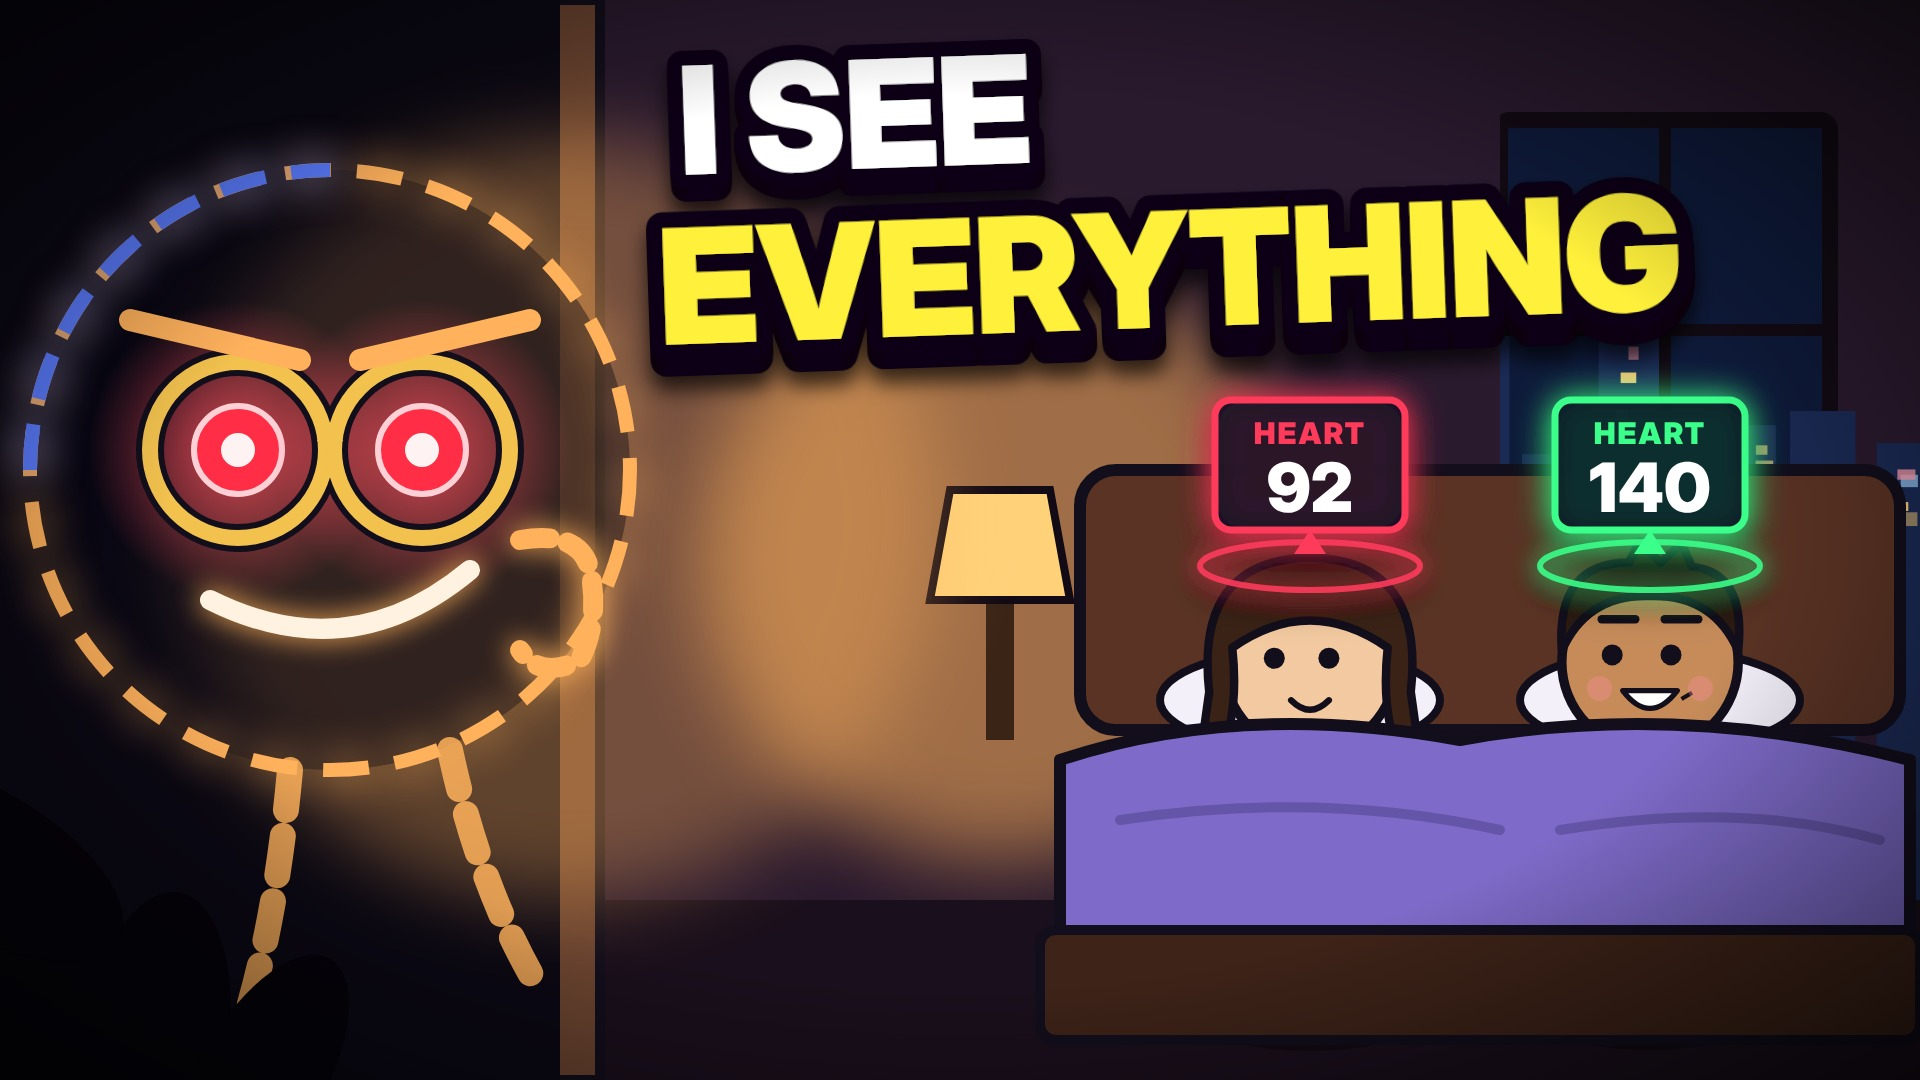
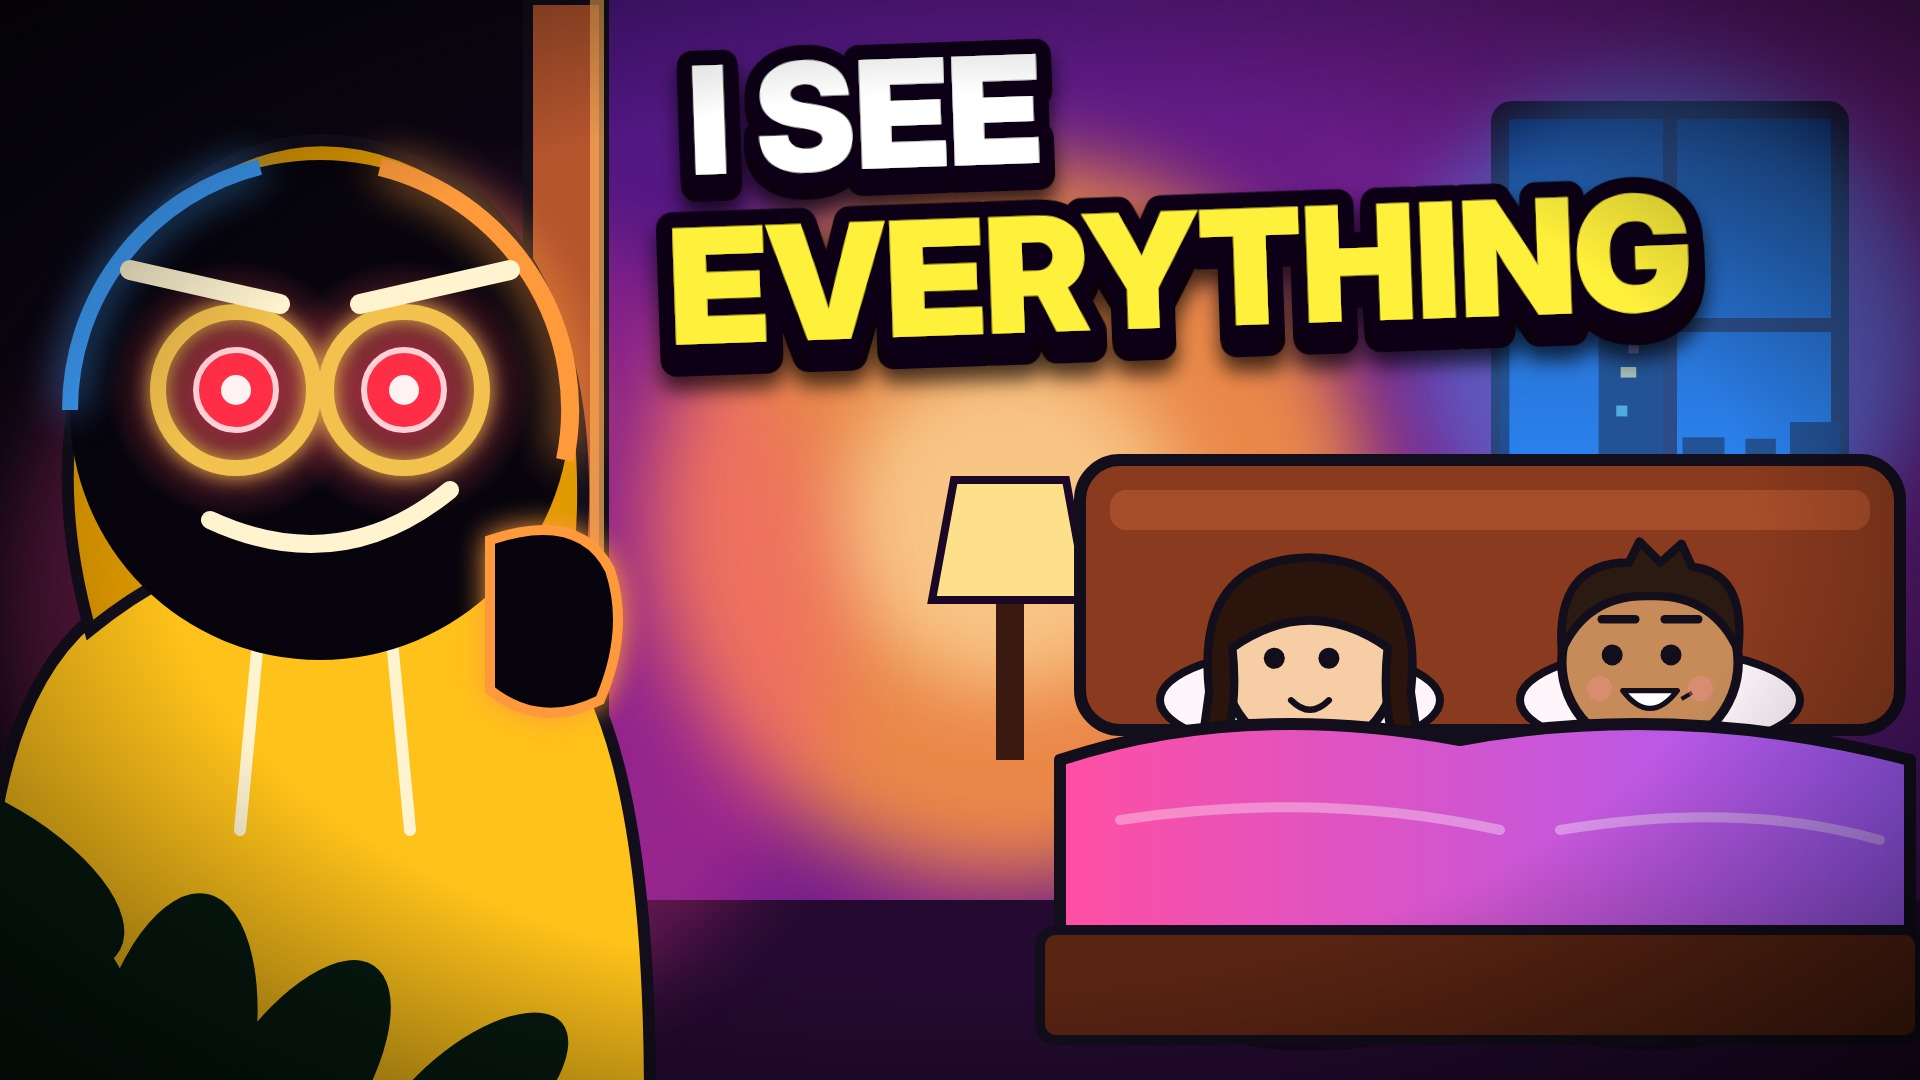
016 peek thumbnail: vivid palette, hoodie, no heart meters
Claude-Session: https://claude.ai/code/session_019ai2m2MxcJnxMHWqzPuaSF

diff --git a/episodes/016-invisible/thumb4.html b/episodes/016-invisible/thumb4.html
@@ -1,56 +1,58 @@
 <!doctype html><html><head><meta charset="utf-8"><style>html,body{margin:0}svg{display:block}text{font-family:"Inter Display","Inter",sans-serif}</style></head><body><div id="s"></div>
 <script src="../../studio/lib.js"></script><script src="../../studio/shots.js"></script><script src="../../studio/cast.js"></script><script src="../../studio/thumbkit.js"></script><script src="../../studio/ep/016.js"></script><script>
-// Peeking variant: invisible Glint (rim-lit outline, glowing eyes) huge in the foreground at the door,
-// a warm lamp-lit bedroom behind with the couple under the covers and game-style heart-rate meters.
-const W_='#FFB15C', B_='#5B7CFF';
+// Peeking variant: Glint as a rim-lit shadow in a yellow hoodie, huge in the foreground at the door,
+// spying on a vivid lamp-lit bedroom where a couple lie under the covers, unaware.
+const W_='#FF9A3C', B_='#3FA0FF', HOOD='#FFC21A', HOOD2='#E09A00';
+const th_defs=`<defs>
+ <linearGradient id="thWall" x1="0" y1="0" x2="1" y2="1"><stop offset="0" stop-color="#4A1680"/><stop offset=".55" stop-color="#7A1F8C"/><stop offset="1" stop-color="#2A0E4A"/></linearGradient>
+ <linearGradient id="thSheet" x1="0" y1="0" x2="1" y2="0"><stop offset="0" stop-color="#FF4FA3"/><stop offset="1" stop-color="#A05CFF"/></linearGradient>
+ <linearGradient id="thSky" x1="0" y1="0" x2="0" y2="1"><stop offset="0" stop-color="#0A1E5C"/><stop offset="1" stop-color="#1E7BFF"/></linearGradient>
+</defs>`;
 const th_room=`
- <rect x="560" y="0" width="1360" height="1080" fill="#2A1A2E"/>
- <rect x="1500" y="120" width="330" height="420" rx="10" fill="#0E1A3A" stroke="#120A14" stroke-width="16"/>
- ${TK.skyline(5,540,'#1B2A55',['#FFD27A','#9FD3FF','#FF9FB0'],80,300,30,70)}
- <path d="M1500 330 H1830 M1665 120 V540" stroke="#120A14" stroke-width="12"/>
- <rect x="560" y="0" width="940" height="1080" fill="#2A1A2E"/>
- ${TK.glowBlob(1000,560,300,W_,.55)}
- <g transform="translate(1000,600)"><rect x="-14" y="0" width="28" height="140" fill="#3A2416"/><path d="M-70 0 L70 0 L50 -110 L-50 -110Z" fill="#FFD27A" stroke="#120A14" stroke-width="8"/></g>
- <rect x="560" y="900" width="1360" height="180" fill="#1A0F1C"/>`;
-const th_hair=`<path d="M-96 -30 Q-110 -156 0 -158 Q110 -156 96 -30 L110 70 Q64 20 74 -72 Q0 -124 -74 -72 Q-64 20 -110 70Z" fill="#3A2216" stroke="${INK}" stroke-width="8" stroke-linejoin="round"/>`;
+ <rect x="560" y="0" width="1360" height="1080" fill="url(#thWall)"/>
+ <rect x="1500" y="110" width="340" height="430" rx="12" fill="url(#thSky)" stroke="#1A0826" stroke-width="18"/>
+ <g clip-path="url(#thWin)">${TK.skyline(5,540,'#0B1440',['#FFE27A','#7CF5FF','#FF8FD0'],60,320,30,70)}</g>
+ <clipPath id="thWin"><rect x="1500" y="110" width="340" height="430"/></clipPath>
+ <path d="M1500 325 H1840 M1670 110 V540" stroke="#1A0826" stroke-width="14"/>
+ ${TK.glowBlob(1670,330,260,'#3FA0FF',.45)}
+ ${TK.glowBlob(1010,520,360,W_,.85)}${TK.glowBlob(1010,520,170,'#FFE0A0',.7)}
+ <g transform="translate(1010,600)"><rect x="-14" y="0" width="28" height="160" fill="#3A1A10"/><path d="M-78 0 L78 0 L56 -120 L-56 -120Z" fill="#FFE08A" stroke="#1A0826" stroke-width="8"/></g>
+ <rect x="560" y="900" width="1360" height="180" fill="#240A30"/>`;
+const th_hair=`<path d="M-96 -30 Q-110 -156 0 -158 Q110 -156 96 -30 L110 70 Q64 20 74 -72 Q0 -124 -74 -72 Q-64 20 -110 70Z" fill="#2A140C" stroke="${INK}" stroke-width="8" stroke-linejoin="round"/>`;
 const th_bed=`
- <rect x="1080" y="470" width="820" height="260" rx="36" fill="#5A3324" stroke="${INK}" stroke-width="12"/>
- <ellipse cx="1300" cy="700" rx="140" ry="50" fill="#F4F0FA" stroke="${INK}" stroke-width="8"/><ellipse cx="1660" cy="700" rx="140" ry="50" fill="#F4F0FA" stroke="${INK}" stroke-width="8"/>
- ${extra({x:1310,y:720,s:1.05,t:0,head:'#F2C9A0',mouth:'smile',pose:'down',hair:th_hair,look:-1})}
+ <rect x="1080" y="460" width="820" height="270" rx="40" fill="#8A3A1E" stroke="${INK}" stroke-width="12"/>
+ <rect x="1110" y="490" width="760" height="40" rx="16" fill="#B5552E" opacity=".7"/>
+ <ellipse cx="1300" cy="700" rx="140" ry="50" fill="#FFF6FB" stroke="${INK}" stroke-width="8"/><ellipse cx="1660" cy="700" rx="140" ry="50" fill="#FFF6FB" stroke="${INK}" stroke-width="8"/>
+ ${extra({x:1310,y:720,s:1.05,t:0,head:'#F6CDA4',mouth:'smile',pose:'down',hair:th_hair,look:-1})}
  ${person({x:1650,y:720,s:1.05,t:0,who:'kai',pose:'down',mouth:'grin',brows:'calm',look:-1})}
- <path d="M1060 760 Q1240 700 1460 740 Q1680 700 1910 760 L1910 960 L1060 960Z" fill="#7E6BC9" stroke="${INK}" stroke-width="12" stroke-linejoin="round"/>
- <path d="M1120 820 Q1320 790 1500 830 M1560 830 Q1740 800 1880 840" stroke="#6555A8" stroke-width="10" fill="none" stroke-linecap="round"/>
- <rect x="1040" y="930" width="880" height="110" rx="16" fill="#3E2318" stroke="${INK}" stroke-width="10"/>`;
-const th_meter=(x,y,label,val,col)=>`<g transform="translate(${x},${y})" filter="url(#tkShadow)">
- <ellipse cx="0" cy="96" rx="110" ry="24" fill="none" stroke="${col}" stroke-width="6" opacity=".9" style="filter:drop-shadow(0 0 12px ${col})"/>
- <rect x="-95" y="-70" width="190" height="130" rx="16" fill="#0B0F22" fill-opacity=".85" stroke="${col}" stroke-width="7" style="filter:drop-shadow(0 0 16px ${col})"/>
- <text y="-26" text-anchor="middle" font-size="30" font-weight="900" fill="${col}" letter-spacing="2">${label}</text>
- <text y="42" text-anchor="middle" font-size="68" font-weight="900" fill="#fff">${val}</text>
- <path d="M0 60 L-16 84 H16Z" fill="${col}"/></g>`;
+ <path d="M1060 760 Q1240 700 1460 740 Q1680 700 1910 760 L1910 960 L1060 960Z" fill="url(#thSheet)" stroke="${INK}" stroke-width="12" stroke-linejoin="round"/>
+ <path d="M1120 820 Q1320 790 1500 830 M1560 830 Q1740 800 1880 840" stroke="#FFFFFF" stroke-opacity=".35" stroke-width="10" fill="none" stroke-linecap="round"/>
+ <rect x="1040" y="930" width="880" height="110" rx="16" fill="#5A2412" stroke="${INK}" stroke-width="10"/>`;
 const th_door=`
- <rect x="530" y="0" width="70" height="1080" fill="#6B4430" stroke="${INK}" stroke-width="10"/>
- <rect x="0" y="0" width="560" height="1080" fill="#0B0814"/>
- ${TK.glowBlob(560,520,380,W_,.35)}`;
-// big invisible Glint peeking: dashed outline body, rim light, glowing eyes in gold glasses
-const th_glint=`<g transform="translate(330,470)">
- <circle r="300" fill="#0A0814" opacity=".55"/>
- <circle r="300" fill="none" stroke="${W_}" stroke-width="14" stroke-dasharray="46 26" style="filter:drop-shadow(0 0 22px ${W_})"/>
- <path d="M-300 0 A300 300 0 0 1 0 -300" fill="none" stroke="${B_}" stroke-width="14" stroke-dasharray="46 26" style="filter:drop-shadow(0 0 22px ${B_})"/>
- <path d="M-40 300 Q-60 520 -120 640 M120 280 Q150 420 210 520" stroke="${W_}" stroke-width="26" fill="none" stroke-dasharray="40 26" stroke-linecap="round" opacity=".85"/>
- ${[-1,1].map(d=>`<g transform="translate(${d*92},-20)"><circle r="150" fill="url(#gRed)"/><circle r="44" fill="#FF2E46" stroke="#FFD0D6" stroke-width="6"/><circle r="17" fill="#FFF2F2"/></g>`).join('')}
- <circle cx="-92" cy="-20" r="88" fill="none" stroke="${INK}" stroke-width="28"/><circle cx="92" cy="-20" r="88" fill="none" stroke="${INK}" stroke-width="28"/>
- <circle cx="-92" cy="-20" r="88" fill="none" stroke="#F2C14E" stroke-width="16"/><circle cx="92" cy="-20" r="88" fill="none" stroke="#F2C14E" stroke-width="16"/>
- <path d="M-8 -26 Q0 -40 8 -26" stroke="#F2C14E" stroke-width="12" fill="none"/>
- <path d="M-200 -150 L-30 -110 M200 -150 L30 -110" stroke="${W_}" stroke-width="22" stroke-linecap="round"/>
- <path d="M-120 130 Q20 200 140 100" stroke="#FFF2E0" stroke-width="20" fill="none" stroke-linecap="round" style="filter:drop-shadow(0 0 14px ${W_})"/>
+ <rect x="0" y="0" width="560" height="1080" fill="#0A0612"/>
+ ${TK.glowBlob(420,620,420,'#FF3B9A',.28)}
+ <rect x="528" y="0" width="76" height="1080" fill="#B5552E" stroke="${INK}" stroke-width="10"/>
+ <rect x="590" y="0" width="14" height="1080" fill="#FFB15C" opacity=".7"/>`;
+// Glint: solid shadow head with a hot rim light, yellow hoodie, glowing red eyes in his gold glasses, sly grin
+const th_glint=`<g transform="translate(320,500)">
+ <path d="M-330 600 Q-360 230 -230 120 Q-120 30 0 40 Q140 40 240 140 Q330 240 330 600Z" fill="${HOOD}" stroke="${INK}" stroke-width="12"/>
+ <path d="M-230 130 Q-300 -120 -150 -300 Q0 -420 160 -300 Q300 -160 250 140 Q120 40 0 40 Q-120 40 -230 130Z" fill="${HOOD2}" stroke="${INK}" stroke-width="12"/>
+ <path d="M-60 120 L-80 330 M70 120 L90 330" stroke="#FFF3D0" stroke-width="12" stroke-linecap="round"/>
+ <circle cx="0" cy="-90" r="250" fill="#07040D"/>
+ <path d="M-250 -90 A250 250 0 0 1 -60 -333" fill="none" stroke="${B_}" stroke-width="16" style="filter:drop-shadow(0 0 20px ${B_})"/>
+ <path d="M60 -333 A250 250 0 0 1 245 -40" fill="none" stroke="${W_}" stroke-width="18" style="filter:drop-shadow(0 0 22px ${W_})"/>
+ ${[-1,1].map(d=>`<g transform="translate(${d*84},-110)"><circle r="130" fill="url(#gRed)"/><circle r="40" fill="#FF2E46" stroke="#FFD0D6" stroke-width="6"/><circle r="15" fill="#FFF2F2"/></g>`).join('')}
+ <circle cx="-84" cy="-110" r="78" fill="none" stroke="#F2C14E" stroke-width="16" style="filter:drop-shadow(0 0 10px #F2C14E)"/><circle cx="84" cy="-110" r="78" fill="none" stroke="#F2C14E" stroke-width="16" style="filter:drop-shadow(0 0 10px #F2C14E)"/>
+ <path d="M-8 -116 Q0 -128 8 -116" stroke="#F2C14E" stroke-width="12" fill="none"/>
+ <path d="M-190 -230 L-40 -196 M190 -230 L40 -196" stroke="#FFF3D0" stroke-width="20" stroke-linecap="round"/>
+ <path d="M-110 20 Q20 80 130 -10" stroke="#FFF3D0" stroke-width="18" fill="none" stroke-linecap="round"/>
 </g>
- <g transform="translate(560,600)"><path d="M-40 -60 q60 -10 70 30 q10 50 -10 90 q-40 20 -60 -10" fill="none" stroke="${W_}" stroke-width="20" stroke-dasharray="30 18" stroke-linecap="round" style="filter:drop-shadow(0 0 14px ${W_})"/></g>`;
-const th_leaves=`<g fill="#05030A">${[[30,1000,190,-30],[150,1060,170,10],[-20,860,160,-60],[260,1080,140,30]].map(([x,y,r,a])=>`<ellipse cx="${x}" cy="${y}" rx="${r*.45}" ry="${r}" transform="rotate(${a} ${x} ${y})"/>`).join('')}</g>`;
-document.getElementById('s').innerHTML=TK.wrap(`${i16_DEFS}
+ <g transform="translate(560,610)"><path d="M-70 -70 Q20 -100 50 -40 Q70 20 40 90 Q-20 120 -70 80Z" fill="#07040D" stroke="${W_}" stroke-width="10" style="filter:drop-shadow(0 0 14px ${W_})"/></g>`;
+const th_leaves=`<g fill="#071A10">${[[40,1010,200,-30],[170,1070,180,12],[-30,870,170,-62],[290,1090,150,34],[470,1100,120,50]].map(([x,y,r,a])=>`<ellipse cx="${x}" cy="${y}" rx="${r*.45}" ry="${r}" transform="rotate(${a} ${x} ${y})"/>`).join('')}</g>`;
+document.getElementById('s').innerHTML=TK.wrap(`${i16_DEFS}${th_defs}
  ${th_room}${th_bed}
- ${th_meter(1310,470,'HEART','92','#FF3B5C')}${th_meter(1650,470,'HEART','140','#3BFF8A')}
  ${th_door}${th_glint}${th_leaves}
- ${TK.text(680,175,'I SEE',{size:150,fill:'#fff',rot:-2})}
- ${TK.text(660,345,'EVERYTHING',{size:160,fill:'#FFF03B',rot:-2,depth:16})}
-`,'#0B0814');
+ ${TK.text(690,175,'I SEE',{size:150,fill:'#fff',rot:-2})}
+ ${TK.text(670,345,'EVERYTHING',{size:160,fill:'#FFF03B',rot:-2,depth:16})}
+`,'#0A0612');
 </script></body></html>
